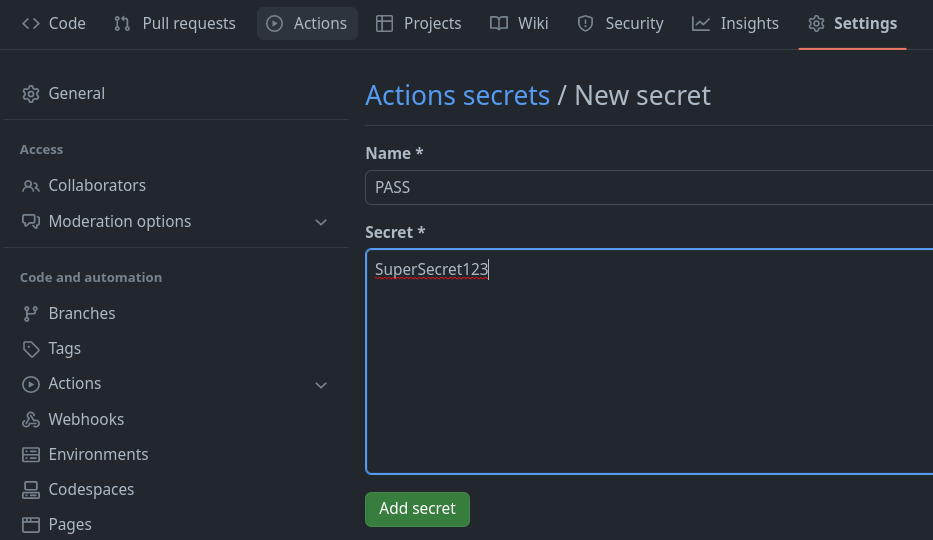
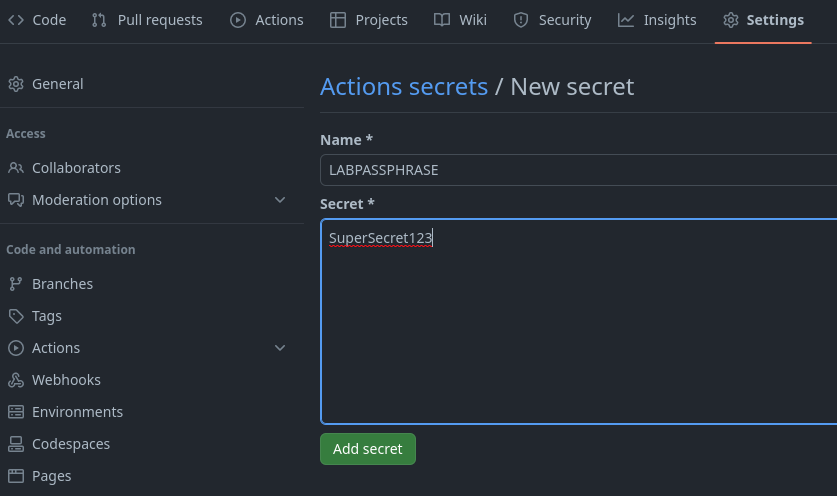
initial work on rewrite

diff --git a/workshops/cicd-basics.md b/workshops/cicd-basics.md
@@ -1,6 +1,6 @@
 # CI/CD
 
-This section walks you through an example CI/CD pipeline leveraging GitHub Actions, Arista Validated Designs (AVD), and Arista CloudVision Platform (CVP). The lab leverages the Arista Test Drive (ATD) solution to give you a pre-built environment to get started quickly.
+This section walks you through an example CI/CD pipeline leveraging GitHub Actions, Arista Validated Designs (AVD), and the Arista CloudVision Platform (CVP). The lab leverages the Arista Test Drive (ATD) solution to give you a pre-built environment to get started quickly. This section assumes readers have completed the [AVD workshop](avd-lab-guide.md) within their ATD environment.
 
 Readers should be familiar with the following concepts.
 
@@ -11,9 +11,9 @@ Readers should be familiar with the following concepts.
 
 ## The topology
 
-The dual data center ATD is deployed by default with many devices. The topology allows users to run examples like data center interconnect. In our case, we only require a subset of nodes. Devices from site 1 (s1) will act as our development infrastructure, and devices in site 2 (s2) will be our production infrastructure. The diagram below exemplifies what we hope to accomplish at the end of this workflow.
+Throughout this section we will make use of the following dual datacenter topology. Click on the image to zoom in for details.
 
-![Topology](assets/diagrams/topo.svg)
+![Dual DC Topology](assets/images/dual-dc-topo.svg)
 
 ## Getting started
 
@@ -50,7 +50,7 @@ pip3 install -r ${ARISTA_AVD_DIR}/arista/avd/requirements.txt
 
 ## Fork repository
 
-You will be creating your own CI/CD pipeline in this workflow. Log in to your GitHub account and [fork this repository](https://github.com/arista-netdevops-community/atd-cicd) to get started.
+You will be creating your own CI/CD pipeline in this workflow. Log in to your GitHub account and [fork this repository](https://github.com/PacketAnglers/workshops-avd) to get started.
 
 ![Create fork](assets/images/create-fork.png)
 
@@ -76,7 +76,7 @@ You will need to set one secret in your newly forked GitHub repository.
 
 5. Enter the secret as follows
 
-   - Name: PASS
+   - Name: LABPASSPHRASE
    - Secret: Listed in ATD lab topology
 
     ![Lab credentials](assets/images/lab-creds.png)
@@ -87,17 +87,11 @@ You will need to set one secret in your newly forked GitHub repository.
 !!! note
     Our workflow uses this secret to authenticate with our CVP instance.
 
-## Clone forked repository to ATD IDE
+## Configure global Git settings
 
-1. Click `Code`
-2. Copy the HTTPS link
-![Copy code](assets/images/copy-code.png)
-3. From the IDE terminal, run the following
+1. From the IDE terminal, run the following
 
     ```shell
-    cd labfiles
-    git clone <your copied URL>
-    cd atd-cicd
     git config --global user.name "FirstName LastName"
     git config --global user.email "name@example.com"
     ```
@@ -105,52 +99,45 @@ You will need to set one secret in your newly forked GitHub repository.
 !!! note
     If the Git `user.name` and `user.email` are set, they may be skipped. You can check this by running the `git config --list` command.
 
-## Environment variables
-
-This repository relies on one environment variable to be set, our login credentials. From the ATD IDE, run the following command.
-
-```shell
-export PASS=<some password in local ATD>
-```
-
-!!! note
-    The value of `PASS` is the same secret used earlier. For example, `export PASS=arista1234`.
-
 ## Create new branch
 
-In a moment, we will be deploying changes to our environments. In reality, updates to a code repository would be done from a development or feature branch. We will follow this same workflow.
+In a moment, we will be deploying changes to our environment. In reality, updates to a code repository would be done from a development or feature branch. We will follow this same workflow.
 
 !!! note
-    This example will use the branch name of `new-dc`, if you use your own naming scheme, make sure to make the appropriate updates.
+    This example will use the branch name of `dc-updates`, if you use your own naming scheme, make sure to make the appropriate updates.
 
 ```shell
-git checkout -b new-dc
+git checkout -b dc-updates
 ```
 
 ## Update local CVP variables
 
 Every user will get a unique CVP instance deployed. There are two updates required.
 
-1. Update the `ansible_host` variable under `cv_atd1` in the `atd-inventory/dev/hosts.yml` file
+1. Add the `ansible_host` variable under the `cvp` host in the `/home/coder/project/labfiles/workshops-avd/sites/site_1/invnetory.yml` file.
 
     ```yaml
-    ...
-        cv_atd1:
-          ansible_host: <atd-topo12345.topo.testdrive.arista.com>
-          cv_collection: v3
-          execute_tasks: true
-    ...
+    ---
+    SITE1:
+      children:
+        CVP:
+          hosts:
+              cvp:
+                ansible_host: <atd-topo12345.topo.testdrive.arista.com>
+       ...
     ```
 
-2. Update the `ansible_host` variable under `cv_atd1` in the `atd-inventory/prod/hosts.yml` file
+2. Add the `ansible_host` variable under the `cvp` host in the `/home/coder/project/labfiles/workshops-avd/sites/site_2/invnetory.yml` file.
 
     ```yaml
-    ...
-        cv_atd1:
-          ansible_host: <atd-topo12345.topo.testdrive.arista.com>
-          cv_collection: v3
-          execute_tasks: true
-    ...
+    ---
+    SITE2:
+      children:
+        CVP:
+          hosts:
+              cvp:
+                ansible_host: <atd-topo12345.topo.testdrive.arista.com>
+       ...
     ```
 
 !!! note
@@ -163,7 +150,7 @@ We have two changes in our `hosts.yml` files for production and development envi
 ```shell
 git add .
 git commit -m "Updating host variables"
-git push --set-upstream origin new-dc
+git push --set-upstream origin dc-updates
 ```
 
 !!! note
@@ -227,38 +214,20 @@ This workflow is relatively short but represents some interesting options. For s
 
 ### The steps
 
-The initial `checkout` step makes the repository available to our workflow. We then use Docker Compose to stand up two containers. One to run the Batfish service and a small container with all pre-installed requirements. The second container interacts with the running Batfish service and our CVP instance. If we did not have the second container available, we would have to run through the exact steps you ran to prepare your environment in this workflow. The second container allows us to speed up our workflow. Below is an example of the `docker-compose.yml` file.
+The initial `checkout` step makes the repository available to our workflow. We then use Docker Compose to stand up an AVD runner container. This container has every requirement preinstalled. If we did not have this container available, we would have to run through the exact same steps you ran to prepare your environment in this workflow. The `atd-cicd` container allows us to speed up our workflow. Below is an example of the `docker-compose.yml` file.
 
 ```yaml
 ---
 version: '3.3'
 services:
-  batfish:
-    container_name: batfish
-    volumes:
-      - '.:/data'
-    ports:
-      - '9997:9997'
-      - '9996:9996'
-    image: batfish/batfish
-
   atd-cicd:
     container_name: atd-cicd
     volumes:
       - '.:/app'
     image: juliopdx/atd-cicd
     environment:
-      - PASS=$PASS
-      - net=$net
+      - LABPASSPHRASE=$LABPASSPHRASE
 ```
-
-### A note on Batfish
-
-In case you need to become more familiar with Batfish. It's an open-source tool from [Intentionet](https://www.intentionet.com/). The idea is operators can create their configurations in whatever workflows fit their environment. The configurations can then be sent to the Batfish service for analysis. The checks are all performed offline without connecting to our network devices. For example, we could check things like compatible BGP and OSPF neighbors. The checks are far more extensive than these, and we encourage you to check out their documentation. The diagram below helps illustrate this idea.
-
-![Batfish example](assets/diagrams/batfish.svg)
-
-In the Docker Compose file mentioned earlier, we use this Batfish service in our workflow. We then use the `pybatfish` Python package as our connector into this service to run any checks or ask the service questions about the network. Once these checks pass, we configure the infrastructure using the `eos_config_deploy_cvp` role within the AVD collection.
 
 ## Migrate from OSPF to BGP underlay
 
@@ -343,89 +312,7 @@ At this point, this will kick off our second workflow against the main branch. T
 
 ## Summary and bonus
 
-Congratulations, you have successfully deployed a development and production instance. Feel free to make additional changes or extend the testing pieces.
+Congratulations, you have successfully deployed a CI/CD pipeline with GitHub Actions. Feel free to make additional changes or extend the testing pieces.
 
 !!! note
     If your topology shut down or time elapsed, you must run through the requirement installations and GitHub authentication on the next `git push`.
-
-### Simple test with hosts (optional)
-
-In reality, AVD does not manage hosts. In this topology, hosts are just cEOS nodes. We have a playbook that will configure host1 from each environment. Again, to cut down on the number of devices for this example, the two hosts will be configured with two VRFs to send traffic across the network. An example of the configuration and execution command is below.
-
-<!-- TODO add mermaid diagram with s1-host1 and two VRFs -->
-
-```text
-vrf instance BLUE
-!
-vrf instance RED
-!
-no ip routing vrf BLUE
-no ip routing vrf RED
-!
-interface Ethernet1
-   no switchport
-   vrf BLUE
-   ip address 10.10.10.1/24
-!
-interface Ethernet2
-   no switchport
-   vrf RED
-   ip address 10.10.10.2/24
-!
-```
-
-From the ATD IDE, execute the following playbook.
-
-```shell
-ansible-playbook playbooks/atd-host-provision.yml
-```
-
-Once these tasks complete in CVP, you can connect to either `s1-host1` or `s2-host1` and test reachability.
-
-```text
-s1-host1# ping vrf BLUE 10.10.10.2
-PING 10.10.10.2 (10.10.10.2) 72(100) bytes of data.
-80 bytes from 10.10.10.2: icmp_seq=1 ttl=64 time=31.0 ms
-80 bytes from 10.10.10.2: icmp_seq=2 ttl=64 time=26.6 ms
-80 bytes from 10.10.10.2: icmp_seq=3 ttl=64 time=18.8 ms
-80 bytes from 10.10.10.2: icmp_seq=4 ttl=64 time=11.1 ms
-80 bytes from 10.10.10.2: icmp_seq=5 ttl=64 time=10.8 ms
-
---- 10.10.10.2 ping statistics ---
-5 packets transmitted, 5 received, 0% packet loss, time 57ms
-rtt min/avg/max/mdev = 10.898/19.729/31.089/8.114 ms, pipe 4, ipg/ewma 14.488/24.842 ms
-s1-host1#
-```
-
-```text
-s1-host1#show interfaces | include Ethernet|Hardware
-Ethernet1 is up, line protocol is up (connected)
-  Hardware is Ethernet, address is 02d2.56bf.117c (bia 02d2.56bf.117c)
-Ethernet2 is up, line protocol is up (connected)
-  Hardware is Ethernet, address is 9e60.6f70.7324 (bia 9e60.6f70.7324)
-```
-
-In this case, we can see Ethernet1 has a MAC address that ends with `117c`, and Ethernet2 has a MAC address that ends with `7324`. We can check where those MAC addresses were seen from the perspective of `s1-leaf1`.
-
-```text
-s1-leaf1#show mac address-table
-          Mac Address Table
-------------------------------------------------------------------
-
-Vlan    Mac Address       Type        Ports      Moves   Last Move
-----    -----------       ----        -----      -----   ---------
- 110    02d2.56bf.117c    DYNAMIC     Et4        1       0:07:02 ago
- 110    9e60.6f70.7324    DYNAMIC     Vx1        1       0:07:02 ago
-1199    001c.73c0.c613    DYNAMIC     Vx1        1       0:56:15 ago
-Total Mac Addresses for this criterion: 3
-
-          Multicast Mac Address Table
-------------------------------------------------------------------
-
-Vlan    Mac Address       Type        Ports
-----    -----------       ----        -----
-Total Mac Addresses for this criterion: 0
-s1-leaf1#
-```
-
-We can see the MAC ending in `117c` is connected to Ethernet 4 and the MAC ending in `7324` was seen on the VXLAN interface. We have successfully communicated through the fabric. Thank you for following along with this example. If you have any feedback or would like to report an issue/error, please open an issue on the main GitHub repository.
